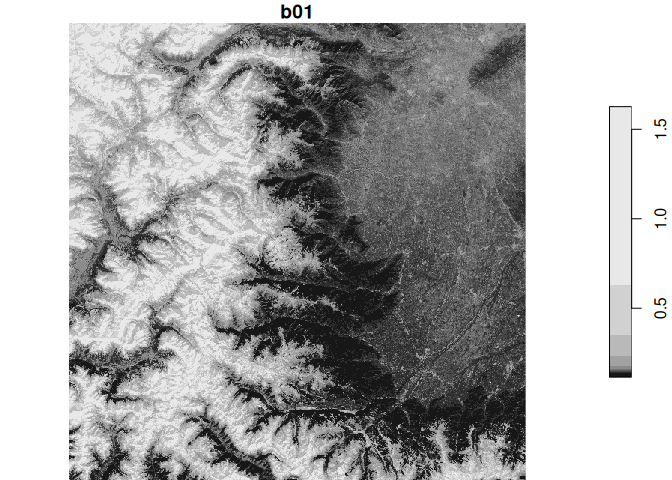
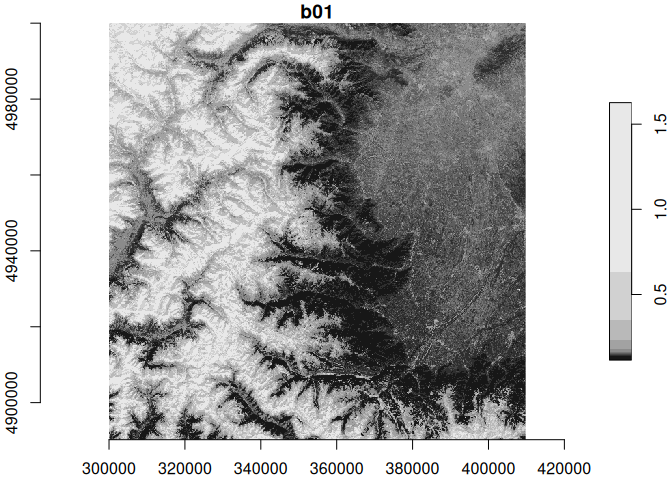
minor fixes rarr to stars function

diff --git a/jh_Rarr+stars.md b/jh_Rarr+stars.md
@@ -13,6 +13,7 @@ library(Rarr)
 library(stars)
 library(dplyr)
 library(jsonlite)
+library(mapview)
 ```
 
 ## Local Zarr with Rarr
@@ -131,7 +132,7 @@ r = read_stars(vsi_url, driver = "ZARR") # errors
     y    1 1830  5e+06   -60 [y]
 
 ``` r
-system.time(plot(r)) 
+system.time(plot(r, axes = TRUE)) 
 ```
 
     downsample set to 2
@@ -139,10 +140,20 @@ system.time(plot(r))
 ![](jh_Rarr+stars_files/figure-commonmark/unnamed-chunk-6-1.png)
 
        user  system elapsed 
-      1.104   0.064   1.158 
+      0.901   0.045   0.936 
 
 ``` r
-# stars mdim
+st_crs(r) # NA: empty
+```
+
+    Coordinate Reference System: NA
+
+``` r
+st_crs(r) = 'EPSG:32632'
+#mapview(r)
+```
+
+``` r
 read_mdim(vsi_url) # errors
 ```
 
@@ -155,21 +166,18 @@ read_mdim(vsi_url, "?") # query array names
     Error in d[[rd[1]]]: attempt to select less than one element in get1index
 
 ``` r
-m = read_mdim(vsi_url, variable = band_variable)
-```
-
-    Warning: ignoring unrecognized unit: digital_counts
-
-``` r
-system.time(plot(m)) # slow: only here the full array is downloaded 
+m = read_mdim(vsi_url, band_variable, proxy = TRUE)
+system.time(plot(m)) # slow: only here the full array is downloaded
 ```
 
     downsample set to 2
 
+    Warning: ignoring unrecognized unit: digital_counts
+
 ![](jh_Rarr+stars_files/figure-commonmark/unnamed-chunk-7-1.png)
 
        user  system elapsed 
-      0.666   0.045   0.713 
+      2.395   0.101  12.478 
 
 ``` r
 # terra 
@@ -190,7 +198,7 @@ system.time(plot(tr)) # slow: only here the full array is downloaded
 ![](jh_Rarr+stars_files/figure-commonmark/unnamed-chunk-8-1.png)
 
        user  system elapsed 
-      2.552   0.071  34.829 
+      3.031   0.152  16.680 
 
 ## Remote Zarr with Rarr
 
@@ -446,7 +454,7 @@ flipped!
 
 ``` r
 # This time point to a single band asset directly!
-zarr_s3_b01 = paste0(zarr_s3, "/measurements/reflectance/r60m/b01")
+zarr_s3_b01 = paste0(zarr_s3, band_variable)
 zarr_overview(zarr_s3_b01)
 ```
 
@@ -462,9 +470,9 @@ zarr_overview(zarr_s3_b01)
 ``` r
 z_s3 = read_zarr_array(zarr_s3_b01)
 
-zarr_s3_x = paste0(zarr_s3, "/conditions/mask/detector_footprint/r60m/x") |> 
+zarr_s3_x = paste0(zarr_s3, "/measurements/reflectance/r60m/x") |> 
   read_zarr_array()
-zarr_s3_y = paste0(zarr_s3, "/conditions/mask/detector_footprint/r60m/y") |> 
+zarr_s3_y = paste0(zarr_s3, "/measurements/reflectance/r60m/y") |> 
   read_zarr_array()
 ```
 
@@ -480,10 +488,10 @@ var = "B01"
 # read 
 # transpose matrixe before converting to stars
 zz = st_as_stars(z_s3 |> t()) |> 
-  st_set_crs(zarr_crs) |> 
   st_set_dimensions(1, names = "X", values = zarr_s3_x) |> 
   st_set_dimensions(2, names = "Y", values = zarr_s3_y) |> 
   setNames(var)
+st_crs(zz) = st_crs(zarr_crs)
 zz
 ```
 
@@ -492,9 +500,9 @@ zz
          Min. 1st Qu. Median     Mean 3rd Qu.  Max.
     B01  2299    2542   2628 4541.124    5304 17556
     dimension(s):
-      from   to  offset delta point x/y
-    X    1 1830  300030    60 FALSE [x]
-    Y    1 1830 5000010   -60 FALSE [y]
+      from   to  offset delta                refsys point x/y
+    X    1 1830  300030    60 WGS 84 / UTM zone 32N FALSE [x]
+    Y    1 1830 5000010   -60 WGS 84 / UTM zone 32N FALSE [y]
 
 ``` r
 plot(zz, axes = TRUE)
@@ -523,19 +531,21 @@ st_read_zarr_band = function(path, var, res, ...){
   # ...: make use of index arguments of read_zarr_array??
   z_s3 = file.path(path, "measurements/reflectance", res_char, var) |> 
     read_zarr_array(...)
-  zarr_s3_x = file.path(path, "conditions/mask/detector_footprint", res_char, "x") |> 
+  zarr_s3_x = file.path(path, "measurements/reflectance", res_char, "x") |> 
     read_zarr_array(...)
-  zarr_s3_y = file.path(path, "conditions/mask/detector_footprint", res_char, "y") |> 
+  zarr_s3_y = file.path(path, "measurements/reflectance", res_char, "y") |> 
     read_zarr_array(...)
   
   # transpose matrixe before converting to stars
-  z_s3 |> 
+  z = z_s3 |> 
     t() |> 
     st_as_stars() |> 
-    st_set_crs(st_crs(zarr_crs)) |> 
+    #st_set_crs(st_crs(zarr_crs)) |>   # does not seem to work in the pipeline.
     st_set_dimensions(1, names = "X", values = zarr_s3_x) |> 
     st_set_dimensions(2, names = "Y", values = zarr_s3_y) |> 
     setNames(var)
+  st_crs(z) = st_crs(zarr_crs)
+  return(z)
 }
 ```
 
@@ -552,9 +562,9 @@ test…
          Min. 1st Qu. Median     Mean 3rd Qu.  Max.
     b01  2299    2542   2628 4541.124    5304 17556
     dimension(s):
-      from   to  offset delta point x/y
-    X    1 1830  300030    60 FALSE [x]
-    Y    1 1830 5000010   -60 FALSE [y]
+      from   to  offset delta                refsys point x/y
+    X    1 1830  300030    60 WGS 84 / UTM zone 32N FALSE [x]
+    Y    1 1830 5000010   -60 WGS 84 / UTM zone 32N FALSE [y]
 
 ``` r
 (b09 = st_read_zarr_band(zarr_s3, "b09", 60))
@@ -565,9 +575,9 @@ test…
          Min. 1st Qu. Median     Mean 3rd Qu.  Max.
     b09  1086    1715   2079 3430.191    3143 16464
     dimension(s):
-      from   to  offset delta point x/y
-    X    1 1830  300030    60 FALSE [x]
-    Y    1 1830 5000010   -60 FALSE [y]
+      from   to  offset delta                refsys point x/y
+    X    1 1830  300030    60 WGS 84 / UTM zone 32N FALSE [x]
+    Y    1 1830 5000010   -60 WGS 84 / UTM zone 32N FALSE [y]
 
 ``` r
 c(b01, b09) |> merge() |> plot(axes = TRUE)
@@ -605,22 +615,26 @@ sessionInfo()
     [8] base     
 
     other attached packages:
-     [1] jsonlite_2.0.0        dplyr_1.1.4           stars_0.6-8          
-     [4] sf_1.0-21             Rarr_1.9.10           DelayedArray_0.28.0  
-     [7] SparseArray_1.2.4     S4Arrays_1.2.1        abind_1.4-8          
-    [10] IRanges_2.36.0        S4Vectors_0.40.2      MatrixGenerics_1.14.0
-    [13] matrixStats_1.5.0     BiocGenerics_0.48.1   Matrix_1.7-4         
+     [1] mapview_2.11.4        jsonlite_2.0.0        dplyr_1.1.4          
+     [4] stars_0.6-8           sf_1.0-21             Rarr_1.9.10          
+     [7] DelayedArray_0.28.0   SparseArray_1.2.4     S4Arrays_1.2.1       
+    [10] abind_1.4-8           IRanges_2.36.0        S4Vectors_0.40.2     
+    [13] MatrixGenerics_1.14.0 matrixStats_1.5.0     BiocGenerics_0.48.1  
+    [16] Matrix_1.7-4         
 
     loaded via a namespace (and not attached):
-     [1] rappdirs_0.3.3     generics_0.1.4     class_7.3-23       KernSmooth_2.23-26
-     [5] lattice_0.22-7     paws.common_0.8.5  digest_0.6.37      magrittr_2.0.4    
-     [9] evaluate_1.0.5     grid_4.5.1         fastmap_1.2.0      R.oo_1.27.1       
-    [13] R.utils_2.13.0     e1071_1.7-16       DBI_1.2.3          codetools_0.2-20  
-    [17] httr2_1.2.1        cli_3.6.5          rlang_1.1.6        crayon_1.5.3      
-    [21] units_1.0-0        XVector_0.42.0     R.methodsS3_1.8.2  withr_3.0.2       
-    [25] yaml_2.3.10        tools_4.5.1        parallel_4.5.1     curl_7.0.0        
-    [29] vctrs_0.6.5        R6_2.6.1           proxy_0.4-27       lifecycle_1.0.4   
-    [33] classInt_0.4-11    zlibbioc_1.48.2    pkgconfig_2.0.3    terra_1.8-70      
-    [37] pillar_1.11.1      glue_1.8.0         Rcpp_1.1.0         tidyselect_1.2.1  
-    [41] tibble_3.3.0       xfun_0.53          paws.storage_0.9.0 knitr_1.50        
-    [45] htmltools_0.5.8.1  rmarkdown_2.30     compiler_4.5.1    
+     [1] xfun_0.53          raster_3.6-32      httr2_1.2.1        htmlwidgets_1.6.4 
+     [5] lattice_0.22-7     vctrs_0.6.5        tools_4.5.1        crosstalk_1.2.2   
+     [9] generics_0.1.4     curl_7.0.0         parallel_4.5.1     tibble_3.3.0      
+    [13] proxy_0.4-27       paws.common_0.8.5  pkgconfig_2.0.3    R.oo_1.27.1       
+    [17] KernSmooth_2.23-26 satellite_1.0.6    RColorBrewer_1.1-3 leaflet_2.2.3     
+    [21] lifecycle_1.0.4    farver_2.1.2       compiler_4.5.1     terra_1.8-70      
+    [25] codetools_0.2-20   htmltools_0.5.8.1  class_7.3-23       yaml_2.3.10       
+    [29] pillar_1.11.1      crayon_1.5.3       R.utils_2.13.0     classInt_0.4-11   
+    [33] tidyselect_1.2.1   digest_0.6.37      paws.storage_0.9.0 fastmap_1.2.0     
+    [37] grid_4.5.1         cli_3.6.5          magrittr_2.0.4     base64enc_0.1-3   
+    [41] leafem_0.2.5       e1071_1.7-16       withr_3.0.2        scales_1.4.0      
+    [45] rappdirs_0.3.3     sp_2.2-0           rmarkdown_2.30     XVector_0.42.0    
+    [49] png_0.1-8          R.methodsS3_1.8.2  evaluate_1.0.5     knitr_1.50        
+    [53] rlang_1.1.6        Rcpp_1.1.0         glue_1.8.0         DBI_1.2.3         
+    [57] R6_2.6.1           zlibbioc_1.48.2    units_1.0-0       
